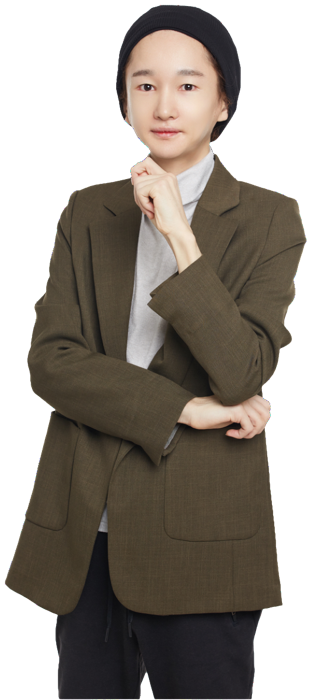
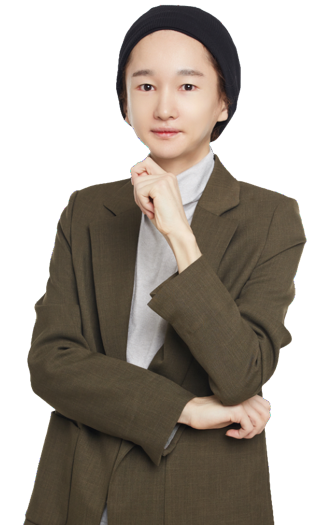
강사 사진(lee_hyun) 머리~허리로 타이트 크롭(원본 백업)

diff --git a/index.html b/index.html
@@ -185,6 +185,7 @@
   .cover .cl{font-size:11.5px;letter-spacing:.14em;text-transform:uppercase;opacity:.72;position:relative}
   .cover .ct{font-family:var(--serif);font-size:24px;font-weight:600;line-height:1.32;position:relative}
   .cover .cb{font-size:12.5px;opacity:.78;position:relative}
+  .cover .soon-badge{position:absolute;top:21px;right:21px;z-index:2;font-size:11px;font-weight:700;letter-spacing:.03em;color:#eef1f6;background:rgba(0,0,0,.36);border:1px solid rgba(255,255,255,.34);padding:4px 10px;border-radius:20px}
   .pbody{padding:18px 20px;display:flex;flex-direction:column;gap:9px;flex:1;border-top:1px solid var(--line)}
   .ptags{display:flex;gap:7px;align-items:center}
   .ptag{font-size:11px;font-weight:600;color:var(--muted)}
@@ -528,6 +529,7 @@
 
       <article class="prod">
         <div class="cover c2">
+          <div class="soon-badge">준비중</div>
           <div class="cl">AP · Calculus</div>
           <div class="ct">AP Calculus<br>Part 1</div>
           <div class="cb">Precalculus Algebra</div>
@@ -546,6 +548,7 @@
 
       <article class="prod">
         <div class="cover" style="background:#241a33">
+          <div class="soon-badge">준비중</div>
           <div class="cl">IB · Mathematics</div>
           <div class="ct">IB Math<br>AA · AI<br>Part 1</div>
           <div class="cb">HL · SL 대비</div>